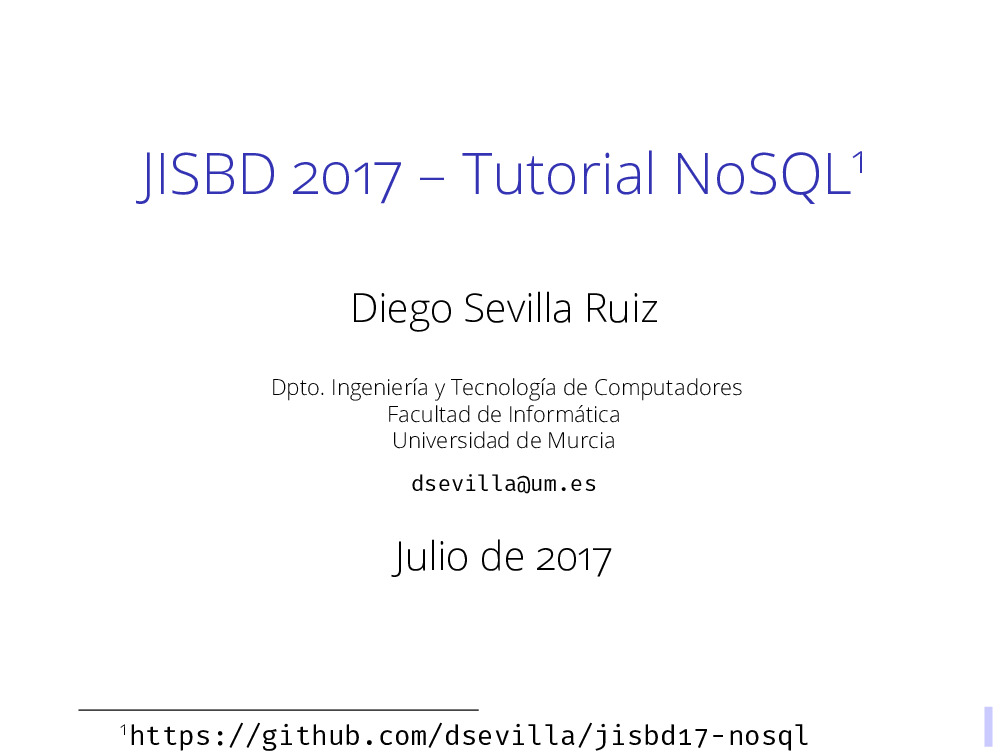
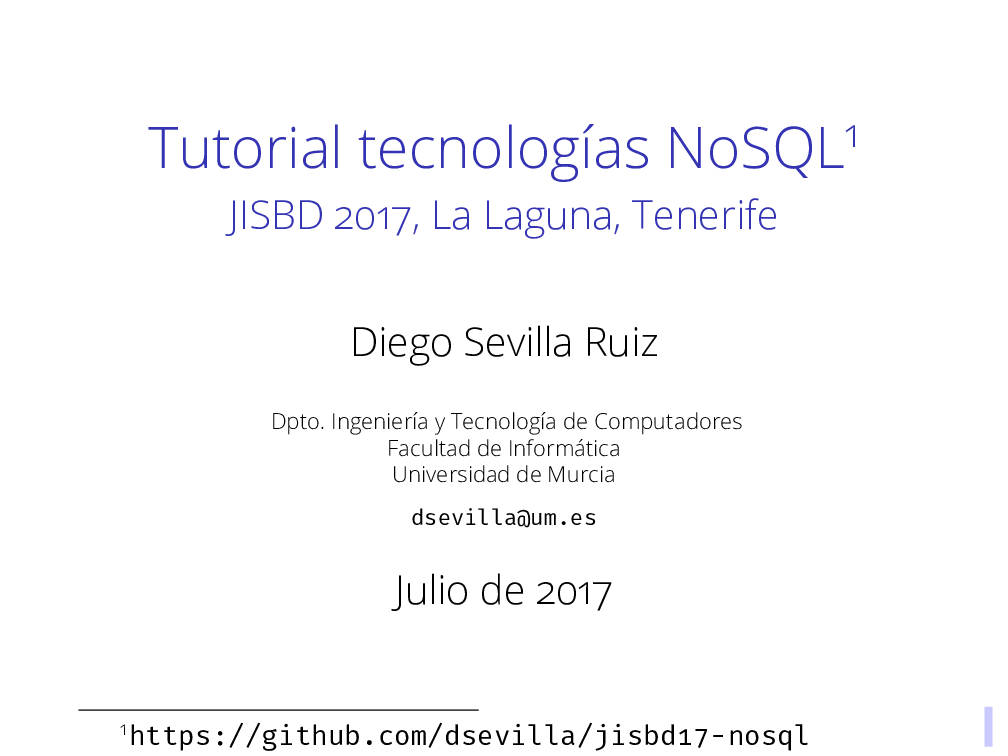
Añadido el sitio de la conferencia.

diff --git a/slides/slides.tex b/slides/slides.tex
@@ -238,8 +238,9 @@ morestring=[b]"
 %       TITLE PAGE
 %----------------------------------------------------------------------------------------
 
-\title{JISBD 2017 -- Tutorial
+\title{Tutorial tecnologías
   NoSQL\thanks{\url{https://github.com/dsevilla/jisbd17-nosql}}}
+\subtitle{JISBD 2017, La Laguna, Tenerife}
 
 \author{Diego Sevilla Ruiz}
 \institute[UMU]
